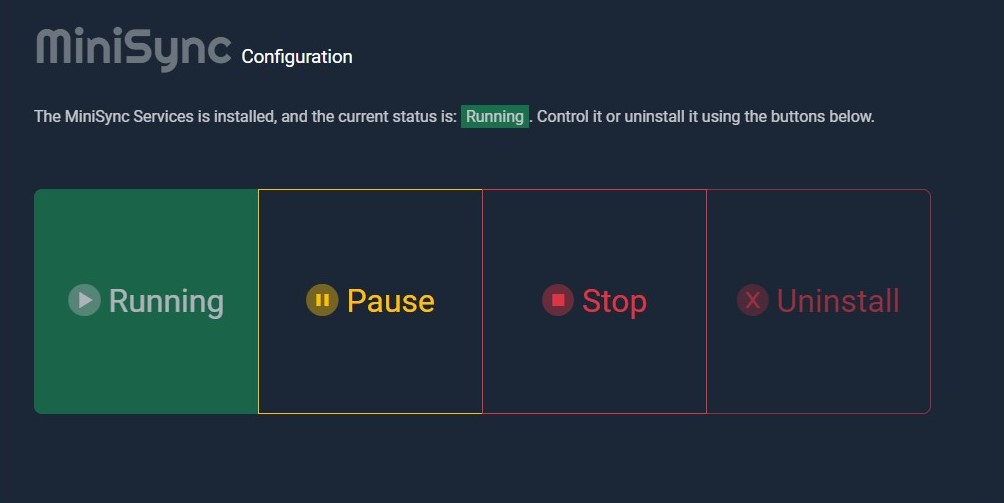
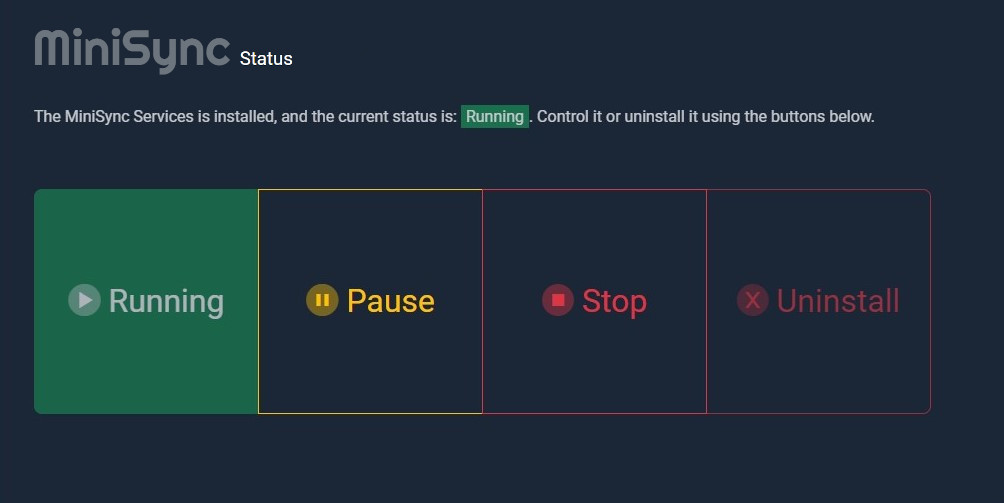
finalizing, cleanup

Changed region(s): [[0.0309, 0.0596, 0.3705, 0.1491]]

diff --git a/frontend/src/index.html b/frontend/src/index.html
@@ -23,7 +23,7 @@
 <body>
     <!-- Service Status Section -->
     <div id="status" class="container">
-        <h1><span id="logo">MiniSync</span> <span id="subtitle">Configuration</span></h1>
+        <h1><span id="logo">MiniSync</span> <span id="subtitle">Status</span></h1>
         <p class="status-text">The MiniSync Services is installed, and the current status is: <span id="currentServiceStatus"></span>.
             Control it or uninstall it using the buttons below.
         </p>

diff --git a/README.md b/README.md
@@ -3,7 +3,7 @@
 
 # MiniSync
 
-This is a simple personal app I wrote for my home network. It made use of some concepts I haden't explored before such as managing Windows services, and an application GUI writting in [Wails](https://wails.io/), so I'm only making thie repository public in case people want to see how I integrated these concepts. **For more information, you can read my writeup on Medium [here](https://medium.com/@matt.wiater/implementing-an-automated-file-backup-system-with-go-and-a-minio-cluster-a-pragmatic-approach-0ef4f047e9dc?source=friends_link&sk=1160c8309a3bc7d057216fb5e5796c9d)**. In other words, this is not meant to be anything other than some implementation examples.
+This is a simple personal app I wrote for my home network. It made use of some concepts I haden't explored before such as managing Windows services, and an application GUI writting in [Wails](https://wails.io/), so I'm only making thie repository public in case people want to see how I integrated these concepts. **For more information, you can read my writeup on Medium [here](https://levelup.gitconnected.com/implementing-an-automated-file-backup-system-with-go-and-a-minio-cluster-a-pragmatic-approach-0ef4f047e9dc)**. In other words, this is not meant to be anything other than some implementation examples.
 
 ## Application Summary
 
